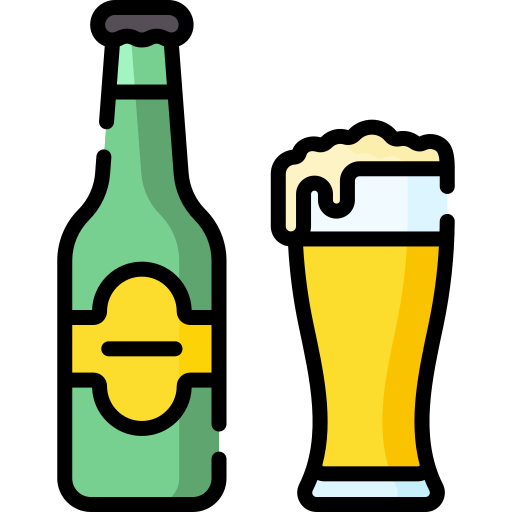
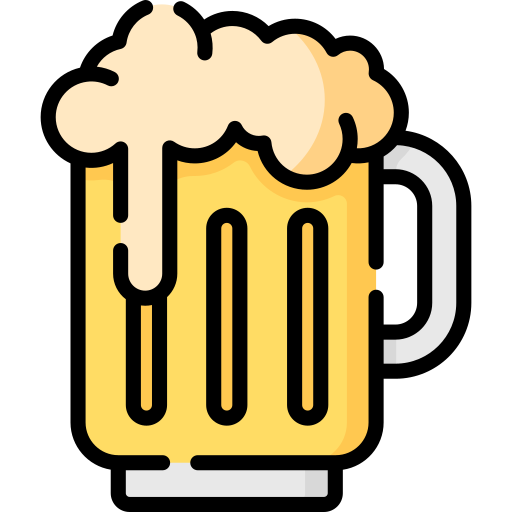
Edit lint warnings and small UI changes

diff --git a/frontend/app/account/page.tsx b/frontend/app/account/page.tsx
@@ -7,16 +7,12 @@ import beerIcon from '../../public/beer.png'
 export default function Account() {
   const [value, setValue] = useState('')
   const [balance, setBalance] = useState('0')
-  const [token, setToken] = useState('')
   const [error, setError] = useState<string | null>(null)
   const [success, setSuccess] = useState(false)
   const [note, setNote] = useState('')
   const [transactions, setTransactions] = useState<
     Array<{ note?: string; amount: number; createdAt: string }>
   >([])
-
-  // const t = localStorage.getItem('token') || ''
-  // setToken(t)
 
   const BEER_PRICE_SEK = 45
   const beerCount = Math.max(0, Math.floor(Number(balance) / BEER_PRICE_SEK))
@@ -32,23 +28,15 @@ export default function Account() {
   }
 
   useEffect(() => {
-  const token = localStorage.getItem('token') || ''
-    if (!token) return
-    const loadUserData = async () => {
-      try {
-        const response = await fetch('http://51.21.196.203:3001/me/accounts', {
-          method: 'POST',
-          headers: { 'Content-Type': 'application/json' },
-          body: JSON.stringify({ token }),
-        })
-        const data = await response.json()
-        setBalance(data.amount)
-        fetchTransactions(token)
-      } catch (e) {
-        console.error(e)
-      }
-    }
-    loadUserData()
+    const t = localStorage.getItem('token') || ''
+    fetch('http://51.21.196.203:3001/me/accounts', {
+      method: 'POST',
+      headers: { 'Content-Type': 'application/json' },
+      body: JSON.stringify({ token: t }),
+    })
+      .then((res) => res.json())
+      .then((data) => setBalance(data.amount))
+    fetchTransactions(t)
   }, [])
 
   async function handleSubmit(e: React.SyntheticEvent<HTMLFormElement>) {
@@ -56,6 +44,7 @@ export default function Account() {
     setError(null)
     setSuccess(false)
 
+    const token = localStorage.getItem('token') || ''
     const parsedAmount = Number(value)
 
     if (!value.trim() || Number.isNaN(parsedAmount) || parsedAmount <= 0) {
@@ -64,7 +53,6 @@ export default function Account() {
     }
 
     try {
-      const token = localStorage.getItem('token') || ''
       const res = await fetch(
         'http://51.21.196.203:3001/me/accounts/transactions',
         {
@@ -105,8 +93,7 @@ export default function Account() {
   return (
     <div className='min-h-screen bg-background'>
       <main className='mx-auto w-full max-w-5xl px-5 py-10'>
-        <div className='flex flex-col items-center gap-6 rounded-3xl bg-primary px-8 py-10 text-center shadow-xl md:grid md:grid-cols-3 md:items-center md:gap-0 md:text-left'>
-          <div className='hidden md:block' />
+        <div className='flex flex-col items-center gap-6 rounded-3xl bg-primary px-8 py-10 text-center shadow-xl'>
           <div className='flex flex-col items-center'>
             <p className='text-sm font-bold uppercase tracking-widest text-background/80'>
               Hej där, ditt saldo är
@@ -115,16 +102,19 @@ export default function Account() {
               {balance} kr
             </p>
           </div>
-          <div className='flex justify-center md:justify-end pr-6'>
-            <div className='flex flex-col items-center'>
+          <div className='flex flex-col items-center'>
+            <p className='text-sm font-bold uppercase tracking-widest text-background/80'>
+              Räcker till
+            </p>
+            <div className='flex items-center mt-2 gap-1'>
+              <p className='font-black text-4xl text-background'>
+                {beerCount}
+              </p>
               <Image
                 src={beerIcon}
                 alt='Beer Icon'
-                className='max-h-20 max-w-20'
+                className='max-h-8 max-w-8'
               />
-              <p className='mt-2 text-sm font-bold text-background/80'>
-                Räcker till {beerCount} öl
-              </p>
             </div>
           </div>
         </div>

diff --git a/backend/server.js b/backend/server.js
@@ -22,9 +22,6 @@ async function query(sql, params) {
   return results
 }
 
-app.use(cors())
-app.use(bodyParser.json())
-
 function generateOTP() {
   const otp = Math.floor(100000 + Math.random() * 900000)
   return otp.toString()
@@ -129,18 +126,19 @@ app.post('/me/accounts/transactions', async (req, res) => {
       [userId],
     )
 
-    if (accountResult === 0) {
+    if (accountResult.length === 0) {
       return res.status(401).json({ error: 'Inget konto hittades' })
     }
 
     const accountId = accountResult[0].id
-    
+
     await query('UPDATE accounts SET amount = amount + ? WHERE userId = ?', [
       Number(amount),
       userId,
     ])
 
-    await query('INSERT INTO transactions (accountId, amount, note) VALUES (?, ?, ?)',
+    await query(
+      'INSERT INTO transactions (accountId, amount, note) VALUES (?, ?, ?)',
       [accountId, Number(amount), note || null],
     )
 
@@ -173,7 +171,7 @@ app.post('/me/accounts/transactions/history', async (req, res) => {
 
     const accountResult = await query(
       'SELECT * FROM accounts WHERE userId = ?',
-      [userId]
+      [userId],
     )
 
     if (accountResult.length === 0) {

diff --git a/frontend/app/components/Navbar.tsx b/frontend/app/components/Navbar.tsx
@@ -2,20 +2,28 @@
 
 import Link from 'next/link'
 import { useRouter } from 'next/navigation'
-import { useState } from 'react'
+import { useSyncExternalStore } from 'react'
+
+function subscribe(callback: () => void) {
+  window.addEventListener('storage', callback)
+  window.addEventListener('auth-change', callback)
+  return () => {
+    window.removeEventListener('storage', callback)
+    window.removeEventListener('auth-change', callback)
+  }
+}
 
 export function Navbar() {
   const router = useRouter()
-  // const pathname = usePathname()
-  const [isLoggedIn, setIsLoggedIn] = useState(false)
-
-  // useEffect(() => {
-  //   setIsLoggedIn(!!localStorage.getItem('token'))
-  // }, [pathname])
+  const isLoggedIn = useSyncExternalStore(
+    subscribe,
+    () => !!localStorage.getItem('token'),
+    () => false,
+  )
 
   function handleLogout() {
     localStorage.removeItem('token')
-    setIsLoggedIn(false)
+    window.dispatchEvent(new Event('auth-change'))
     router.push('/')
   }
 

diff --git a/frontend/app/login/page.tsx b/frontend/app/login/page.tsx
@@ -8,7 +8,6 @@ export default function Login() {
   const router = useRouter()
   const [username, setUsername] = useState('')
   const [password, setPassword] = useState('')
-  const [token, setToken] = useState('')
   const [error, setError] = useState<string | null>(null)
 
   async function handleSubmit(e: React.SyntheticEvent<HTMLFormElement>) {
@@ -30,8 +29,8 @@ export default function Login() {
         throw new Error(`Inloggning misslyckades: ${res.status}`)
       }
       const data = await res.json()
-      setToken(data.token)
       localStorage.setItem('token', data.token)
+      window.dispatchEvent(new Event('auth-change'))
       router.push('/account')
     } catch (err) {
       setError(

diff --git a/frontend/app/register/page.tsx b/frontend/app/register/page.tsx
@@ -28,7 +28,6 @@ export default function Register() {
       if (!res.ok) {
         throw new Error(`Registrering misslyckades: ${res.status}`)
       }
-      const data = await res.json()
       router.push('/login')
     } catch (err) {
       setError(
